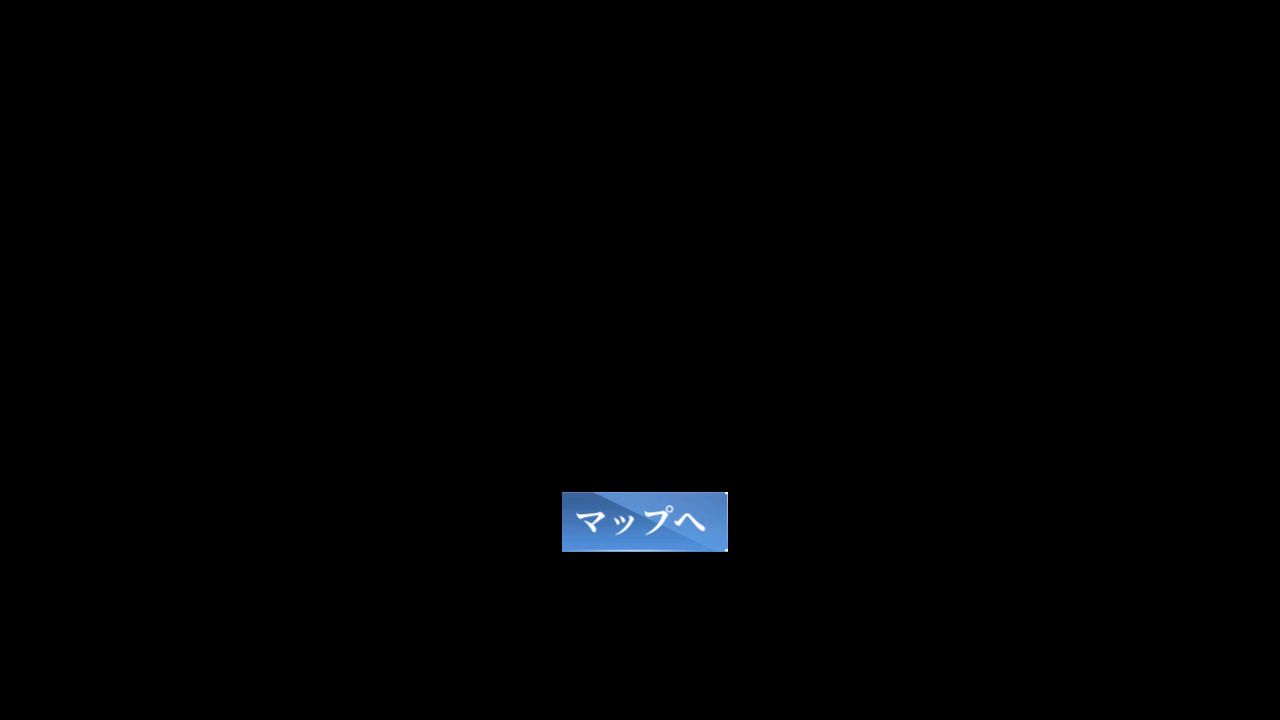
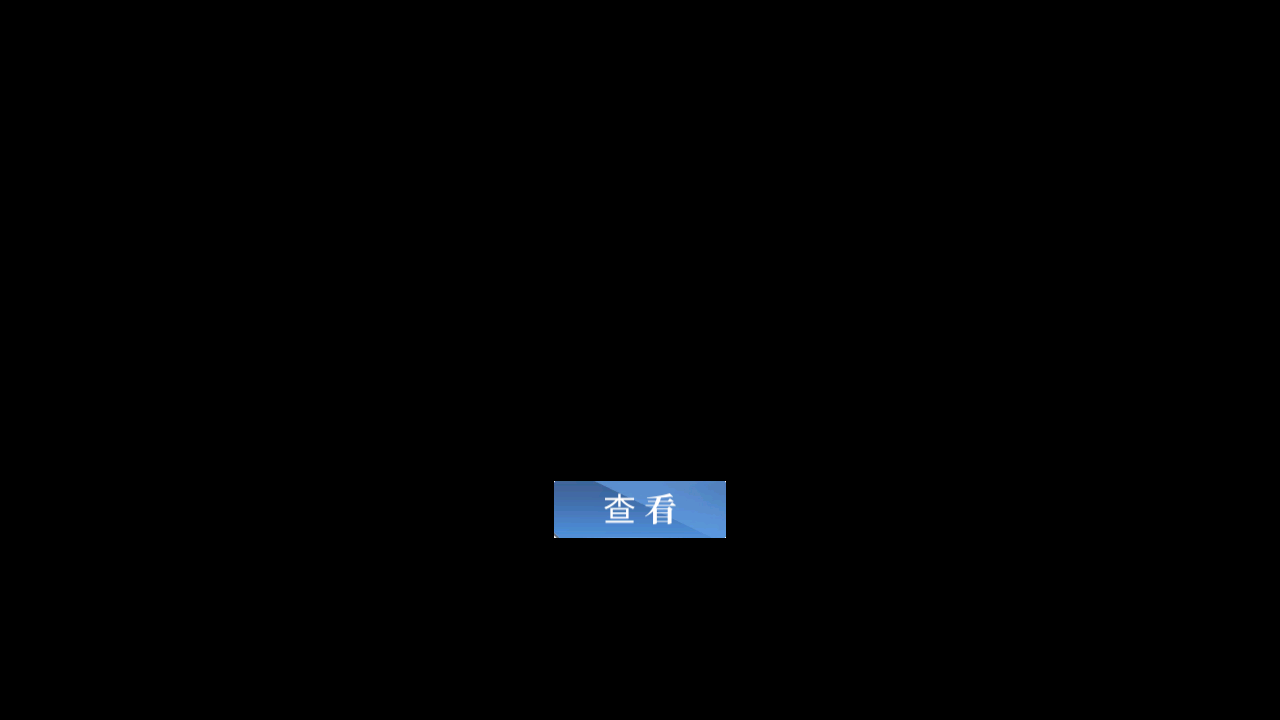
Tmp: [JP] Asset STORAGE_COORDINATE_CHECKOUT

Changed region(s): [[0.4062, 0.6417, 0.5938, 0.7639]]

diff --git a/module/os_handler/assets.py b/module/os_handler/assets.py
@@ -60,7 +60,7 @@ SHOP_BUY_CONFIRM = Button(area={'cn': (704, 483, 876, 540), 'en': (708, 484, 875
 SHOP_PURPLE_COINS = Button(area={'cn': (325, 110, 415, 133), 'en': (379, 106, 489, 137), 'jp': (348, 110, 415, 133), 'tw': (325, 110, 415, 133)}, color={'cn': (97, 100, 108), 'en': (102, 107, 118), 'jp': (125, 128, 140), 'tw': (97, 100, 108)}, button={'cn': (325, 110, 415, 133), 'en': (379, 106, 489, 137), 'jp': (348, 110, 415, 133), 'tw': (325, 110, 415, 133)}, file={'cn': './assets/cn/os_handler/SHOP_PURPLE_COINS.png', 'en': './assets/en/os_handler/SHOP_PURPLE_COINS.png', 'jp': './assets/jp/os_handler/SHOP_PURPLE_COINS.png', 'tw': './assets/tw/os_handler/SHOP_PURPLE_COINS.png'})
 SHOP_YELLOW_COINS = Button(area={'cn': (1038, 27, 1128, 48), 'en': (1038, 27, 1128, 48), 'jp': (1038, 27, 1128, 48), 'tw': (1038, 27, 1128, 48)}, color={'cn': (71, 74, 76), 'en': (71, 74, 76), 'jp': (71, 74, 76), 'tw': (71, 74, 76)}, button={'cn': (1038, 27, 1128, 48), 'en': (1038, 27, 1128, 48), 'jp': (1038, 27, 1128, 48), 'tw': (1038, 27, 1128, 48)}, file={'cn': './assets/cn/os_handler/SHOP_YELLOW_COINS.png', 'en': './assets/en/os_handler/SHOP_YELLOW_COINS.png', 'jp': './assets/jp/os_handler/SHOP_YELLOW_COINS.png', 'tw': './assets/tw/os_handler/SHOP_YELLOW_COINS.png'})
 STORAGE_CHECK = Button(area={'cn': (122, 15, 203, 40), 'en': (139, 14, 254, 41), 'jp': (120, 14, 212, 40), 'tw': (121, 14, 205, 40)}, color={'cn': (162, 178, 214), 'en': (107, 121, 161), 'jp': (97, 108, 143), 'tw': (163, 178, 213)}, button={'cn': (122, 15, 203, 40), 'en': (139, 14, 254, 41), 'jp': (120, 14, 212, 40), 'tw': (121, 14, 205, 40)}, file={'cn': './assets/cn/os_handler/STORAGE_CHECK.png', 'en': './assets/en/os_handler/STORAGE_CHECK.png', 'jp': './assets/jp/os_handler/STORAGE_CHECK.png', 'tw': './assets/tw/os_handler/STORAGE_CHECK.png'})
-STORAGE_COORDINATE_CHECKOUT = Button(area={'cn': (554, 493, 726, 550), 'en': (560, 495, 725, 549), 'jp': (562, 492, 728, 552), 'tw': (555, 493, 725, 551)}, color={'cn': (92, 141, 203), 'en': (98, 146, 206), 'jp': (92, 142, 204), 'tw': (92, 142, 204)}, button={'cn': (554, 493, 726, 550), 'en': (560, 495, 725, 549), 'jp': (562, 492, 728, 552), 'tw': (555, 493, 725, 551)}, file={'cn': './assets/cn/os_handler/STORAGE_COORDINATE_CHECKOUT.png', 'en': './assets/en/os_handler/STORAGE_COORDINATE_CHECKOUT.png', 'jp': './assets/jp/os_handler/STORAGE_COORDINATE_CHECKOUT.png', 'tw': './assets/tw/os_handler/STORAGE_COORDINATE_CHECKOUT.png'})
+STORAGE_COORDINATE_CHECKOUT = Button(area={'cn': (554, 493, 726, 550), 'en': (560, 495, 725, 549), 'jp': (554, 481, 726, 538), 'tw': (555, 493, 725, 551)}, color={'cn': (92, 141, 203), 'en': (98, 146, 206), 'jp': (91, 140, 201), 'tw': (92, 142, 204)}, button={'cn': (554, 493, 726, 550), 'en': (560, 495, 725, 549), 'jp': (554, 481, 726, 538), 'tw': (555, 493, 725, 551)}, file={'cn': './assets/cn/os_handler/STORAGE_COORDINATE_CHECKOUT.png', 'en': './assets/en/os_handler/STORAGE_COORDINATE_CHECKOUT.png', 'jp': './assets/jp/os_handler/STORAGE_COORDINATE_CHECKOUT.png', 'tw': './assets/tw/os_handler/STORAGE_COORDINATE_CHECKOUT.png'})
 STORAGE_ENTER = Button(area={'cn': (770, 636, 880, 699), 'en': (761, 640, 876, 695), 'jp': (757, 636, 880, 699), 'tw': (618, 638, 725, 698)}, color={'cn': (240, 199, 121), 'en': (238, 191, 115), 'jp': (237, 187, 100), 'tw': (240, 197, 125)}, button={'cn': (770, 636, 880, 699), 'en': (761, 640, 876, 695), 'jp': (757, 636, 880, 699), 'tw': (618, 638, 725, 698)}, file={'cn': './assets/cn/os_handler/STORAGE_ENTER.png', 'en': './assets/en/os_handler/STORAGE_ENTER.png', 'jp': './assets/jp/os_handler/STORAGE_ENTER.png', 'tw': './assets/tw/os_handler/STORAGE_ENTER.png'})
 STORAGE_USE = Button(area={'cn': (709, 506, 769, 536), 'en': (729, 509, 786, 533), 'jp': (764, 506, 856, 536), 'tw': (709, 506, 769, 536)}, color={'cn': (161, 186, 220), 'en': (164, 189, 222), 'jp': (142, 178, 224), 'tw': (161, 186, 220)}, button={'cn': (687, 493, 860, 550), 'en': (693, 495, 858, 549), 'jp': (686, 492, 861, 552), 'tw': (687, 493, 860, 550)}, file={'cn': './assets/cn/os_handler/STORAGE_USE.png', 'en': './assets/en/os_handler/STORAGE_USE.png', 'jp': './assets/jp/os_handler/STORAGE_USE.png', 'tw': './assets/tw/os_handler/STORAGE_USE.png'})
 STORATE_SCROLL = Button(area={'cn': (1256, 102, 1264, 589), 'en': (1256, 102, 1264, 589), 'jp': (1256, 102, 1264, 589), 'tw': (1256, 102, 1264, 589)}, color={'cn': (119, 109, 60), 'en': (119, 109, 60), 'jp': (119, 109, 60), 'tw': (119, 109, 60)}, button={'cn': (1256, 102, 1264, 589), 'en': (1256, 102, 1264, 589), 'jp': (1256, 102, 1264, 589), 'tw': (1256, 102, 1264, 589)}, file={'cn': './assets/cn/os_handler/STORATE_SCROLL.png', 'en': './assets/en/os_handler/STORATE_SCROLL.png', 'jp': './assets/jp/os_handler/STORATE_SCROLL.png', 'tw': './assets/tw/os_handler/STORATE_SCROLL.png'})
